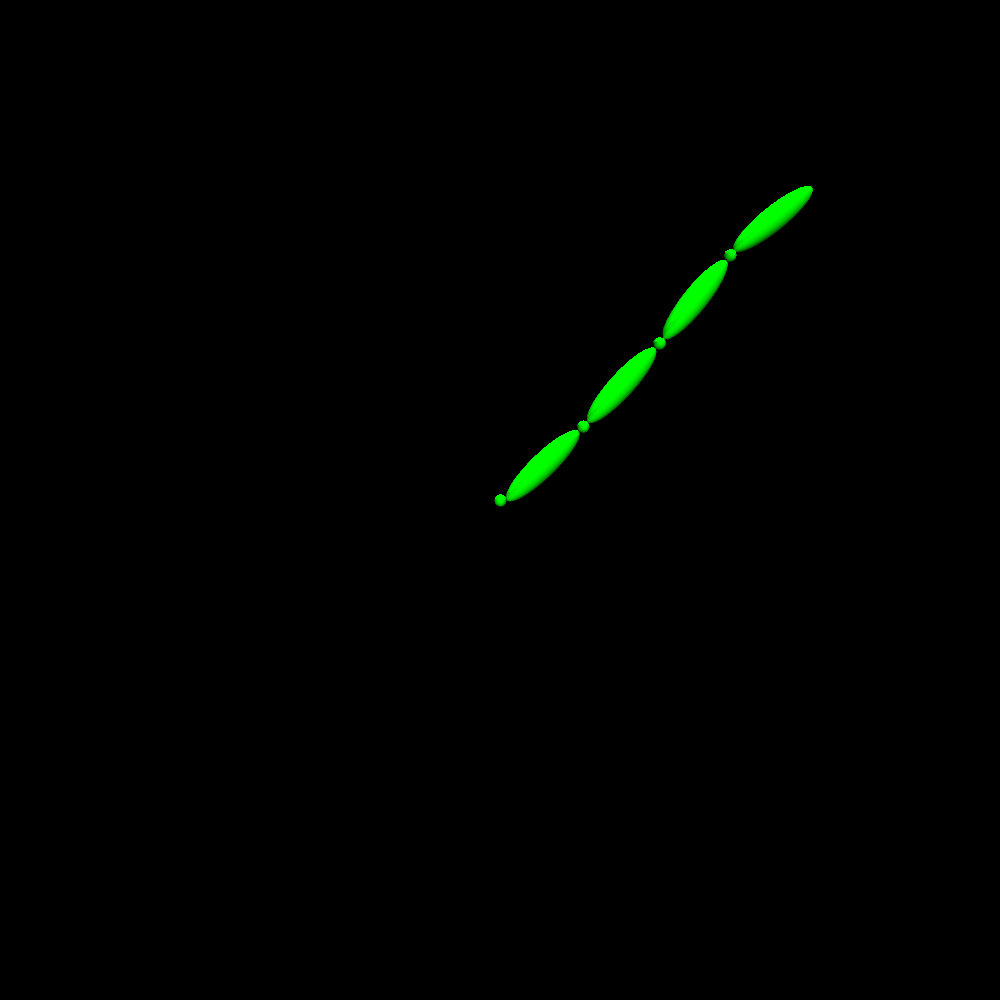
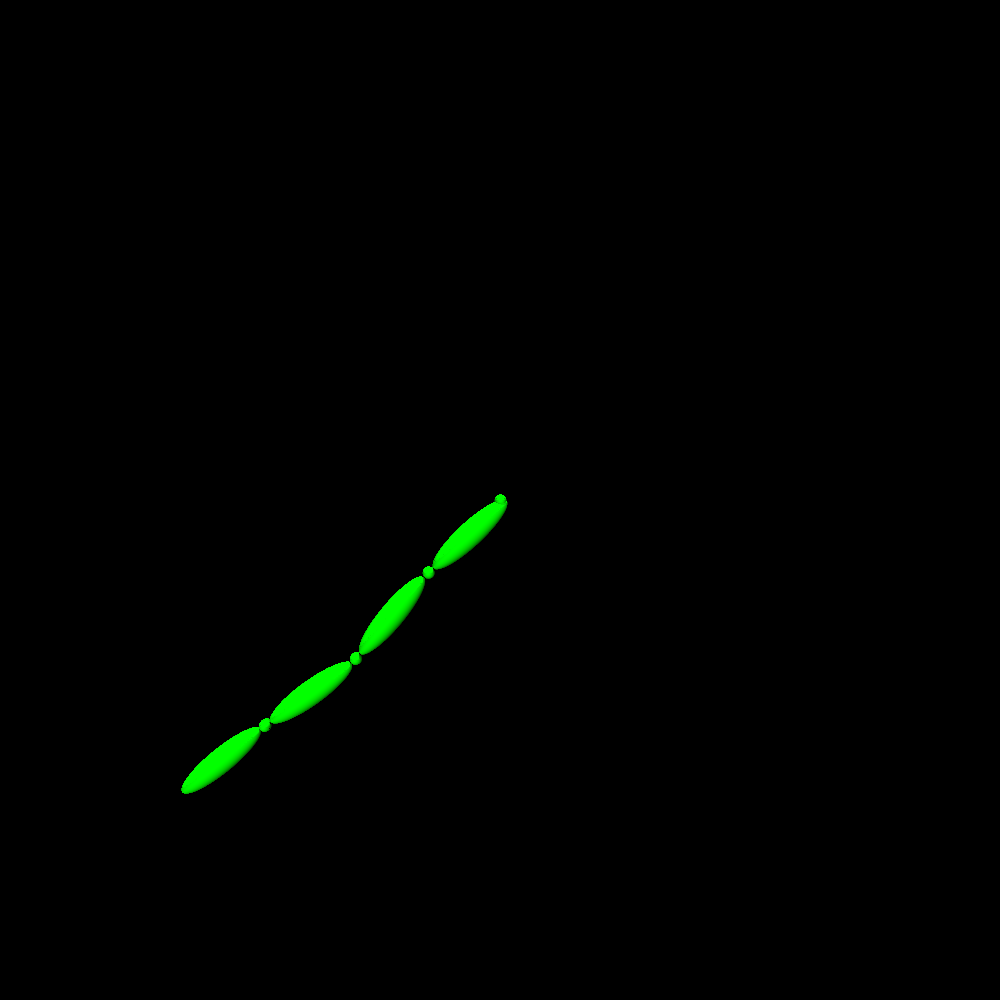
made lambda even smaller

Changed region(s): [[0.186, 0.186, 0.806, 0.806]]

diff --git a/A4/kinematics_solver.cpp b/A4/kinematics_solver.cpp
@@ -660,9 +660,9 @@ void calculateAngles(Point target, MatrixXd j) {
 
   // 2. Find the system end effector pe. Check if ||pe−g||<ϵ. If yes, we are done. Else continue to step 3.
   int iter = 0;
-  int iterMax = 100;
+  int iterMax = 1000;
 
-  float lambda = 0.1;
+  float lambda = 0.01;
 
   Point endEffector;
   while(iter < iterMax){
@@ -1290,7 +1290,7 @@ int main(int argc, char *argv[]) {
 
     // TODO define curve
 
-    curve.push_back(Point(18.0, 18.0, 0.0));
+    curve.push_back(Point(-18.0, -18.0, 0.0));
 
     for (Point target : curve) {
 
